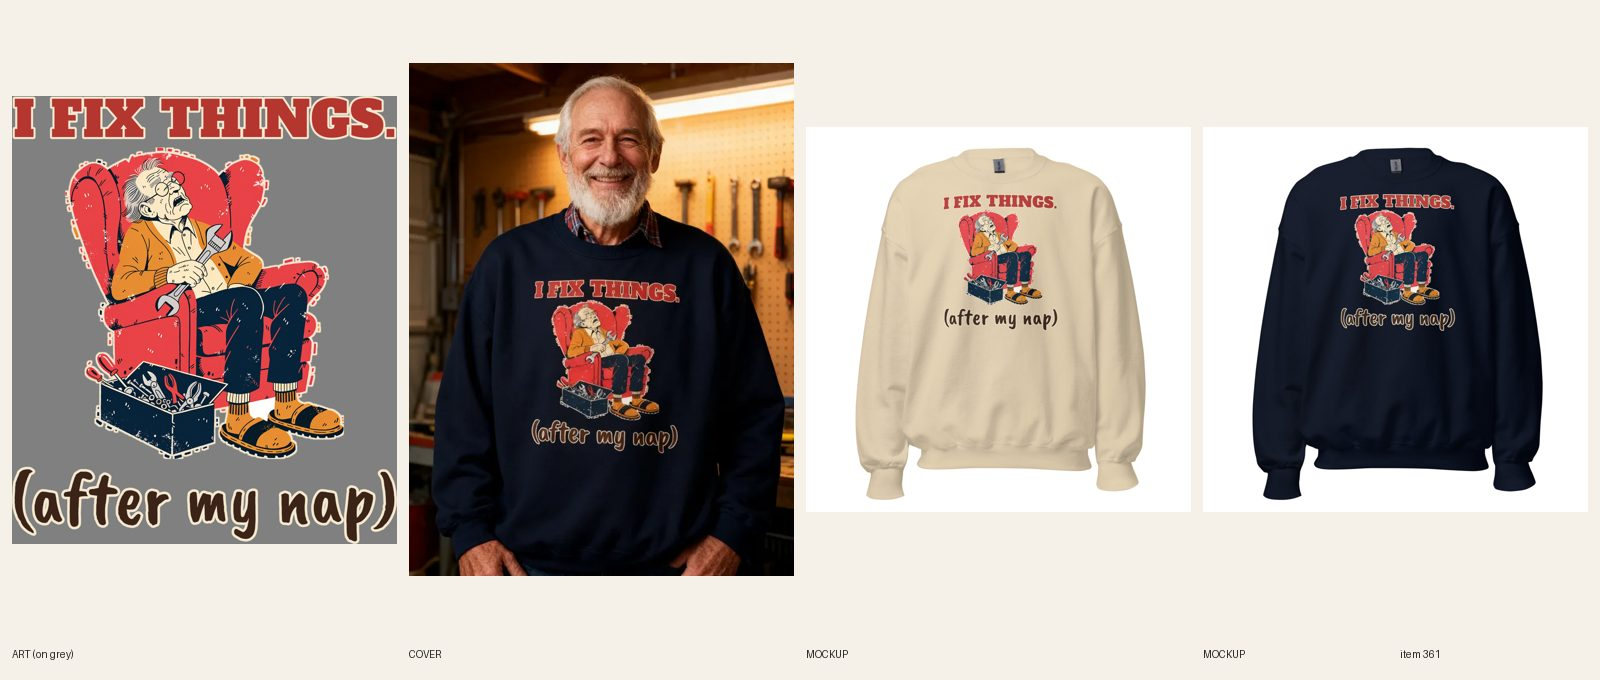
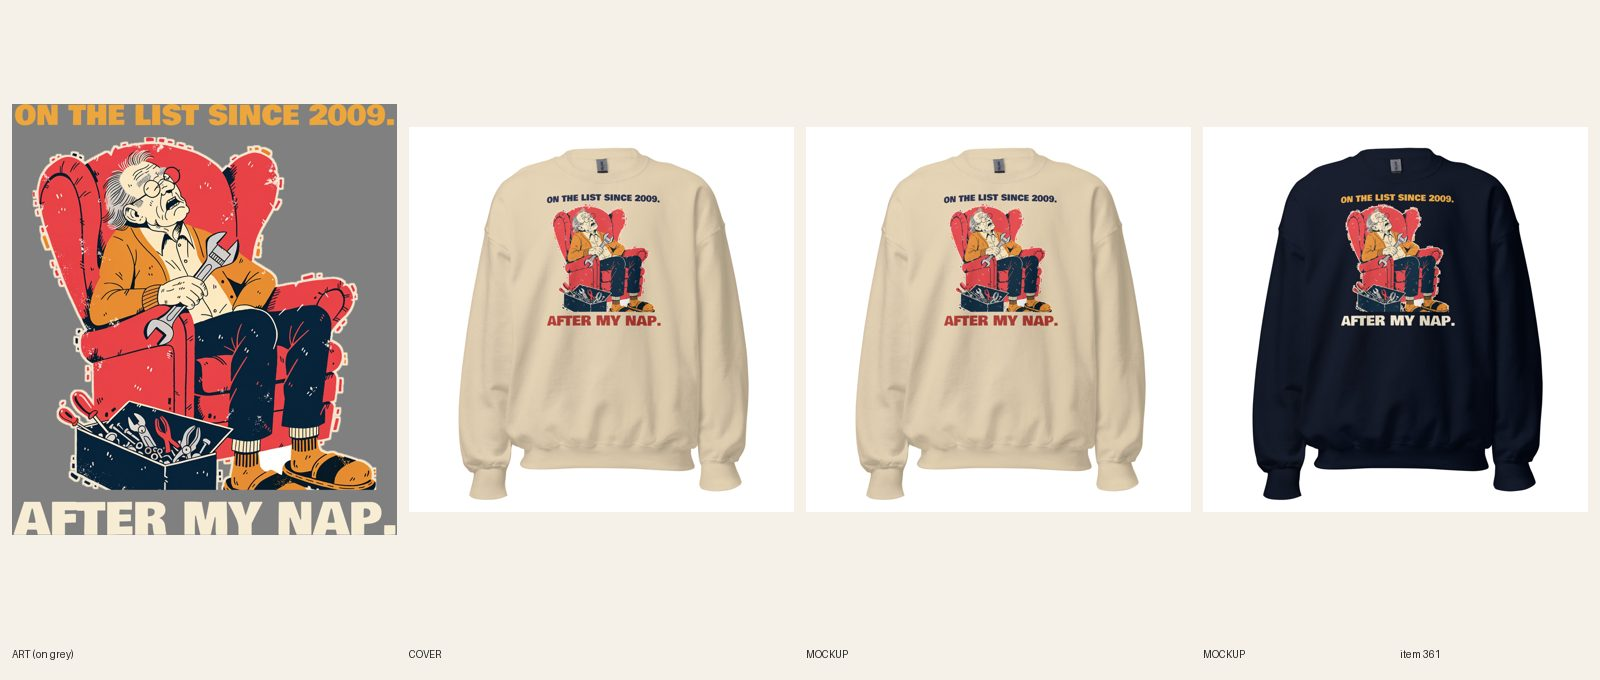
[A] review 361 Grandpa nap crewneck (line+type redo)
Claude-Session: https://claude.ai/code/session_01LaaEYpKaSBZd9opL7Tpo7i

Changed region(s): [[0.0, 0.0926, 0.5, 0.8647], [0.8125, 0.2779, 0.9062, 0.4941], [0.5938, 0.2779, 0.6562, 0.4941]]

diff --git a/docs/pipeline/361-grandpa-crewneck-i-fix-things-after-naps.md b/docs/pipeline/361-grandpa-crewneck-i-fix-things-after-naps.md
@@ -1,4 +1,4 @@
-status: BUILDING [A] 2026-10-20 06:48 UTC
+status: REVIEW
 lane: A
 type: new
 id: 361
@@ -30,3 +30,4 @@ kd: 38
 - 2026-10-18 01:42 UTC builder [A]: BUILT. Art: 1 Recraft call ($0.04, picture only: grandpa asleep in a red recliner with a wrench and a toolbox). I FIX THINGS. in Alfa Slab One (faded red, cream keyline) and (after my nap) in Caveat Brush (real fonts, R4.8); first try had the script in cream, which was too faint on Sand at 400 px (7b), so the script is now dark brown with a cream outline and reads on Sand and Navy. Print 3009x3505, Printful file 1088603481, FW 1650, 12/12 variants linked, back logo kept. Shopify DRAFT (gid 15363171090736, Gildan 18000 Sand + Navy x S-3XL, $34.99 no compare-at): copy rewritten to the real art (glasses, mustard cardigan, red recliner, toolbox; red slab capitals + script), FAQs 5 x 45-49 words incl. order-by Dec 8, primary 'grandpa sweatshirt' in line one and meta. Mockups Sand + Navy + back attached and linked; phone-size read OK on both. Cover reg #552 (seedream 1 attempt, Navy mockup as --design): both lines legible, hands at his sides, nothing over the print. fal ~$0.10. Audit script not runnable on drafts here; astro build passes.
 - 2026-10-18 02:45 UTC director: LIVE (ACTIVE + Online Store/Headless/Google & YouTube, audit PASS 0 warn).
 - 2026-10-18 17:22 UTC director: QUALITY RESET grade C (new line + type), REDO. The product stays ACTIVE (same handle, URL, title keyword). 1. Line (R3.12, quality-reset 'Lines'): "I FIX THINGS. / (after my nap)": Stock grandpa nap trope, mild aside; thin brown handwritten second line. Write 5 candidates, keep the one a stranger laughs at in 3 seconds without backstory; kill lines that only describe the picture; if none of the 5 is funny, PARK it. 2. Quality reset type bar (docs/backlog/quality-reset.md, 'The new bar'): headline at least 90% of the art width, heavy, colors pulled from the art; second line at least 45% of the headline's height, never a thin script on a dark or mid garment; use the lettering as a shape (arch, stacked lockup, words breaking into the art), not a plain bar above and a script line below; no font used on more than 1 in 6 of the last 30 designs. 3. Keep the art if it carries the new line, else one new illustration (R4/R5). New print means a new cover per R6.10, copy line one rewritten for the new joke (R8.3), and a fresh review sheet (R7.7). While quality-reset.md says PAUSED, only lane A builds, and only the samples step 2 names.
+- 2026-10-20 06:57 UTC builder [A]: REDO grade C done (new line + type). Line: ON THE LIST SINCE 2009. / AFTER MY NAP. (5 candidates; the 15-year-old repair list kept, punchline last; title and handle unchanged). Same napping-grandpa art (old two lines cropped off, 3009x2260), Bowlby One both lines at full print width (3248 / 3272 px, punchline bigger), art 89% wide, lockup 3300x3696, FW 1650 TOP 75. Light-file split: Sand on 1090217238 (navy list line, red punchline), Navy on 1090217265 (mustard list line, cream punchline). Back logo 1080398177 kept. Relinked 12/12 verified (Sand 6, Navy 6). 2 fronts replaced in place (fileUpdate), phone-size read ok. Copy: Story line one, lettering sentence (ink named per color), wash FAQ updated; SEO title/meta updated; 5 FAQs, Dec 8 kept; no R8.3 opener. Cover: handle already or now in retired-covers.json (plain product shot). fal $0. audit --handle PASS; astro build ok. Sheet docs/review/361.jpg.

diff --git a/docs/intake-log.md b/docs/intake-log.md
@@ -1,4 +1,6 @@
 2026-10-20 06:47 UTC — [B] Run summary: REVIEW #280 #362 #404 #440 (punch width), #318 #396 #513 #519 (crew punch width), #455 (Lost My Gelt), #469 (Busy at a Good Part, embroidered), #697 (new Outdoorsy in Theory cropped hoodie). #485 was finished by a second lane B session. #498 left for director re-grade (R3.14). fal about $0.16. Lock released.
+2026-10-20 06:57 UTC — [A] Builder run: redid #361 Men's Grandpa I Fix Things After Naps crewneck (line+type: ON THE LIST SINCE 2009. / AFTER MY NAP., same napping grandpa art, Bowlby One full width, FW 1650 TOP 75, Sand file 1090217238 / Navy file 1090217265, 12/12 relinked, 2 fronts replaced in place, copy updated, plain product shot). REVIEW. fal $0.
+RUNNING lane E since 2026-10-20 06:47 UTC
 RUNNING lane C since 2026-10-20 06:30 UTC
 2026-10-20 06:43 UTC — [E] Builder run: redid #486 Women's Embroidered goose crewneck (line + type: NOT IGNORING YOU. / JUST AT A GOOD PART., same goose, new stitched lettering, navy thread, 12/12 synced). REVIEW. fal $0.
 2026-10-20 06:50 UTC — [E] Builder run: redid #559 Women's Bear crewneck (line + type: BEAR WITH ME. I'M RESTING., new belly-up sleeping bear art, Navy + Sand files, 12/12 synced, copy updated, plain product shot). REVIEW. fal $0.04.
